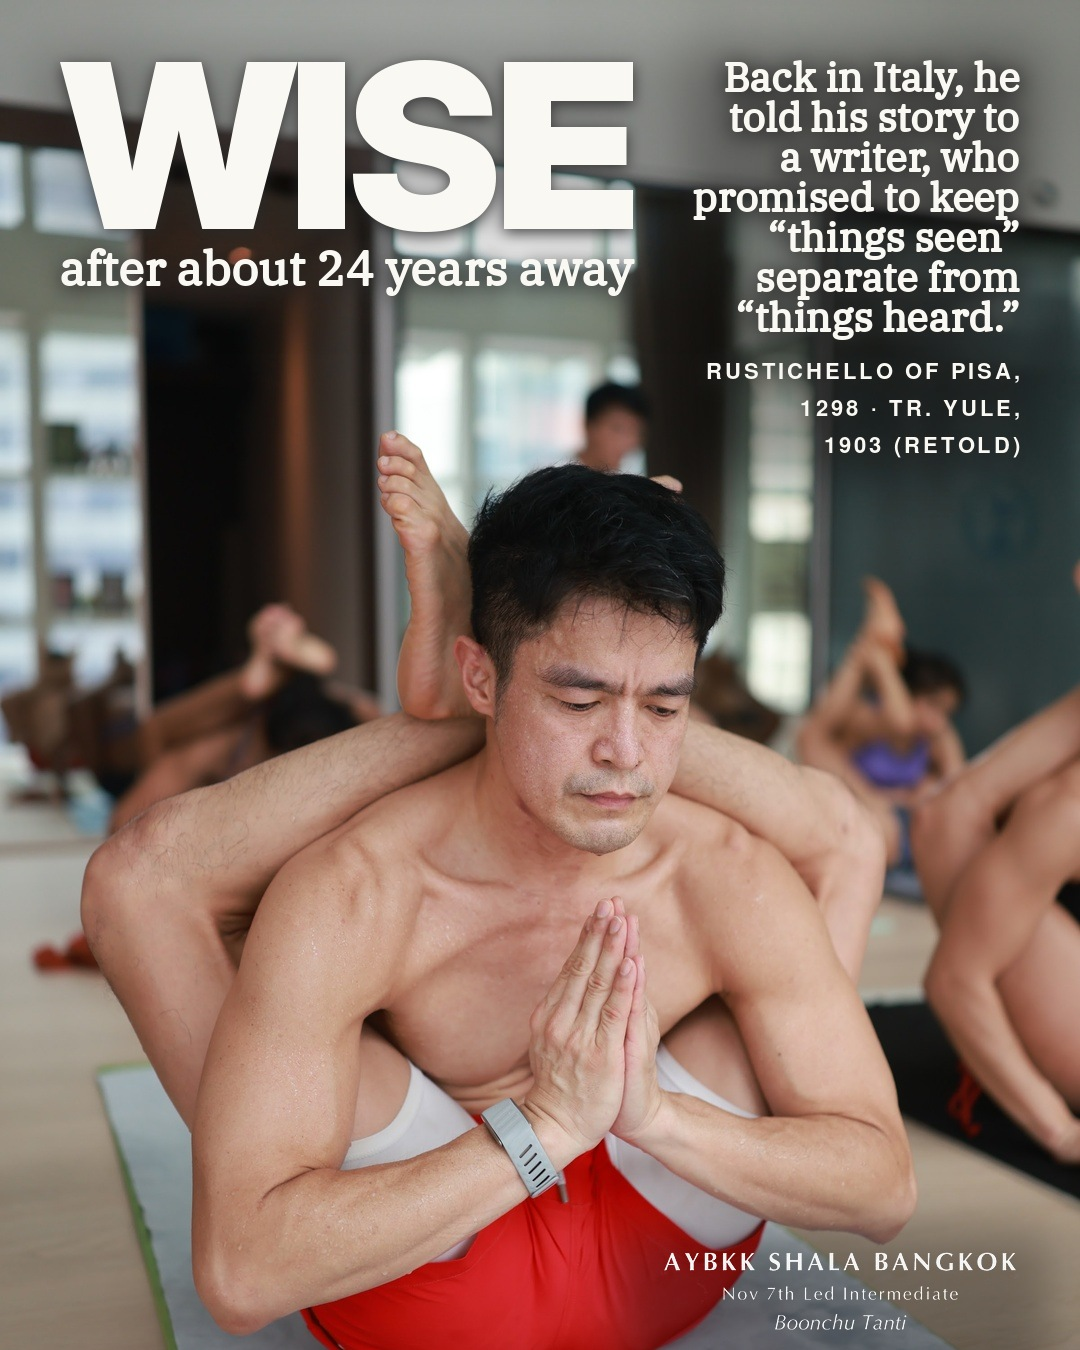
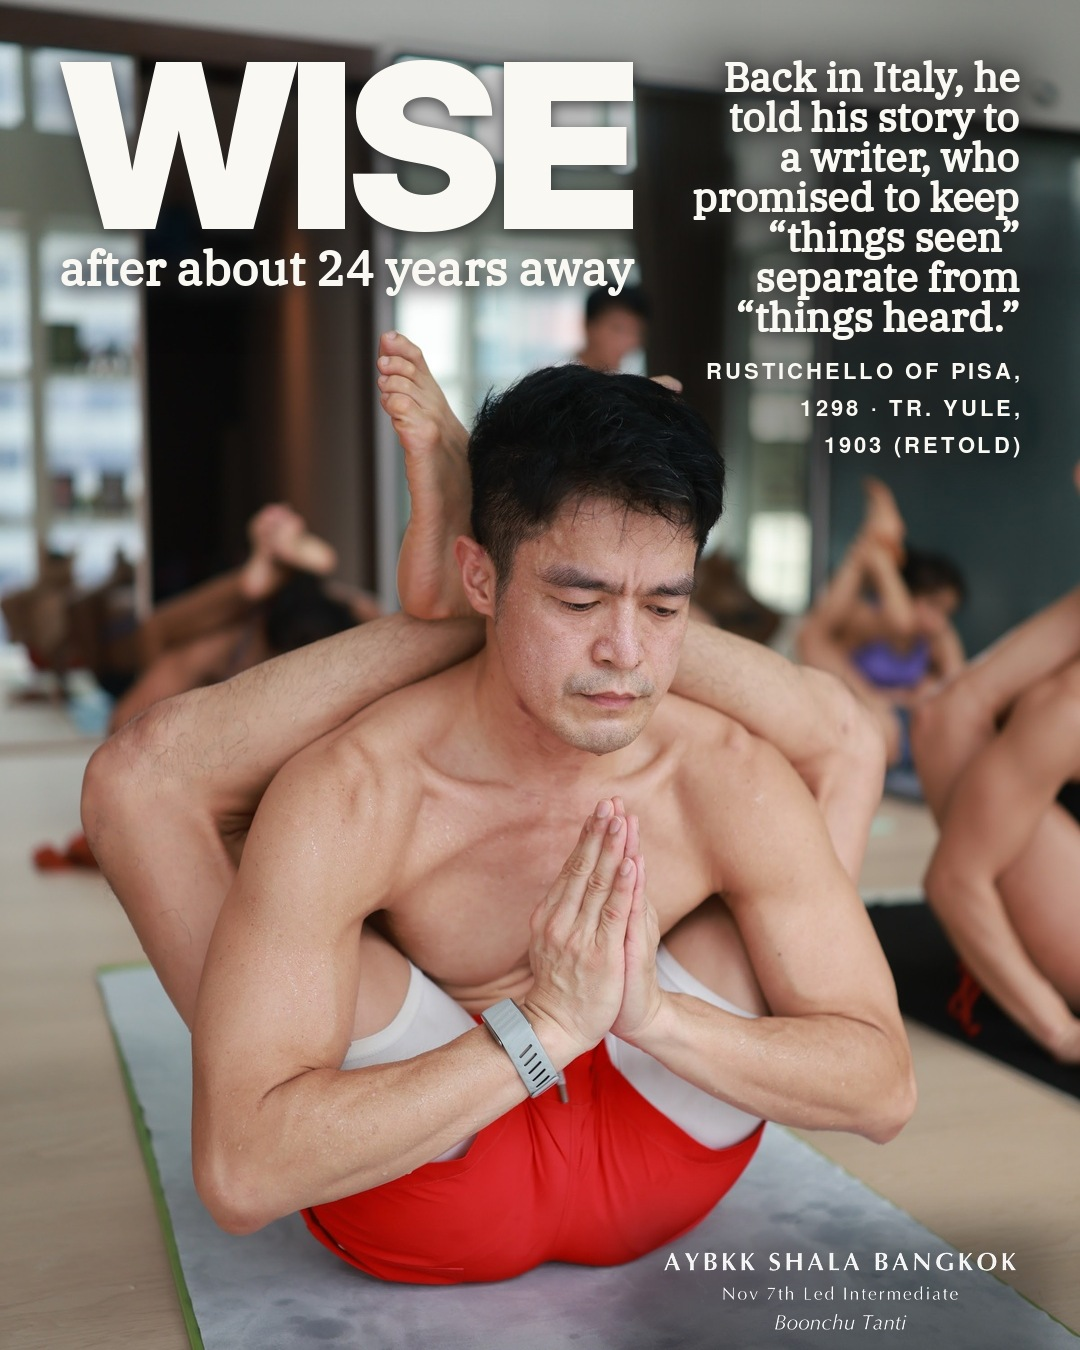
plato chat: 2026-11-07 ladder B WISE crop moved down (hips whole)
Claude-Session: https://claude.ai/code/session_01EpfSiAFErEs2e4MYfzK1F9

diff --git a/bots/notebook/plato.md b/bots/notebook/plato.md
@@ -1,6 +1,7 @@
 # Plato notebook
 
 ## Standing orders from Boonchu
+- 2026-11-07 (Boonchu, Ladder B WISE 07-808): DON'T CUT THE HIPS WHEN THERE IS EMPTY SPACE ('don't cut the butt off. There r so much space on top'). Before shipping, check the main student's hips and seat are fully in; if the top has empty wall or window, move the crop down.
 - 2026-11-07 (Boonchu, Ladder set B): HERO JOURNEYS ('Get some journey of positive hero in the world history', 'No need to be involve in yoga', 'Some journey of the Marco Polo or Christopher Columbus or similar fashion'). For life-story content he likes a positive world-history hero's journey, any field. Plato's line: Columbus is out (conquest and slavery, divisive); Marco Polo is in (loved in China), told without the khan, royalty or the war prison. Always leave out kings, wars, prisons of war, religion conflict.
 - 2026-11-07 (Boonchu, Ladder answers): 'No iyengar' (set B must not tell B.K.S. Iyengar's life; new subject needed). The FEAR student is OK with her slide, with the connecting line under the word. CONFIRMED FACT: at AYBKK 'a teacher notices when you miss class' (OK to say in public).
 - 2026-11-07 (Boonchu, Ladder C OPEN 07-491): WHITE SIDE BARS ARE OK WHEN A 4:5 CROP CAN'T HOLD THE ASANA ('crop just her fingers and my hair and expand with white tab on the side just enough for the size format'). Take a taller slice (cut only a little hair at the top and a little fingertip at the bottom), shrink it to 1350 high, fill the sides with thin white bars (about 50 px each). Engine: t = 'pad:<top>:<bottom>' in eng23.py. Use only when a normal crop would cut the asana or a face.
